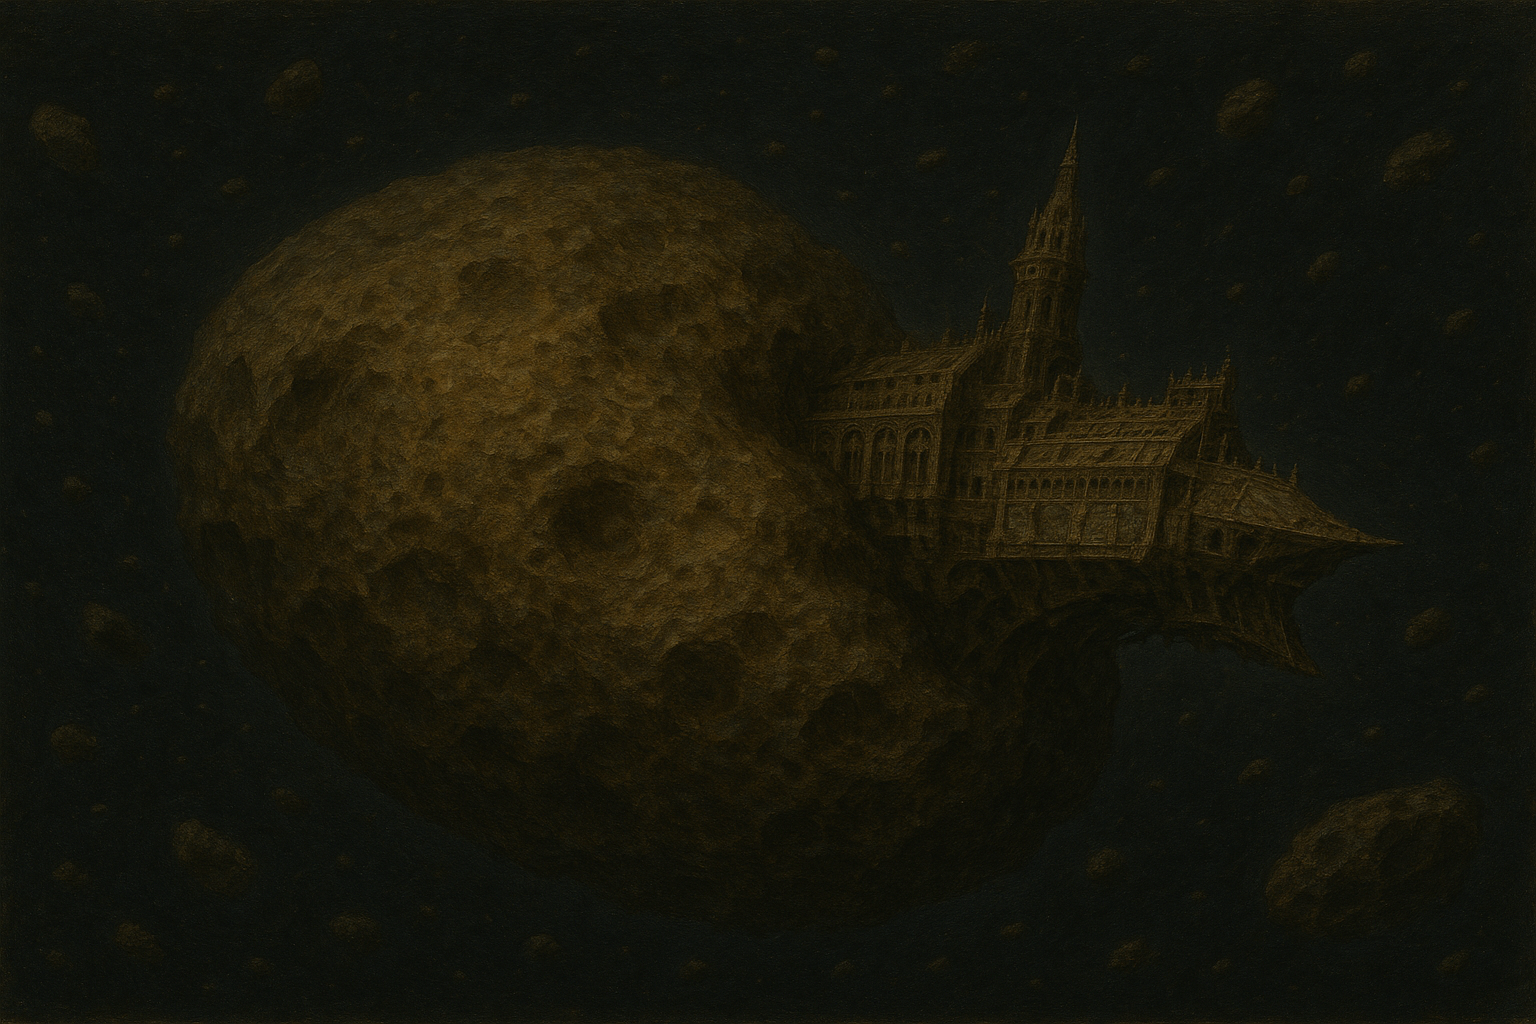
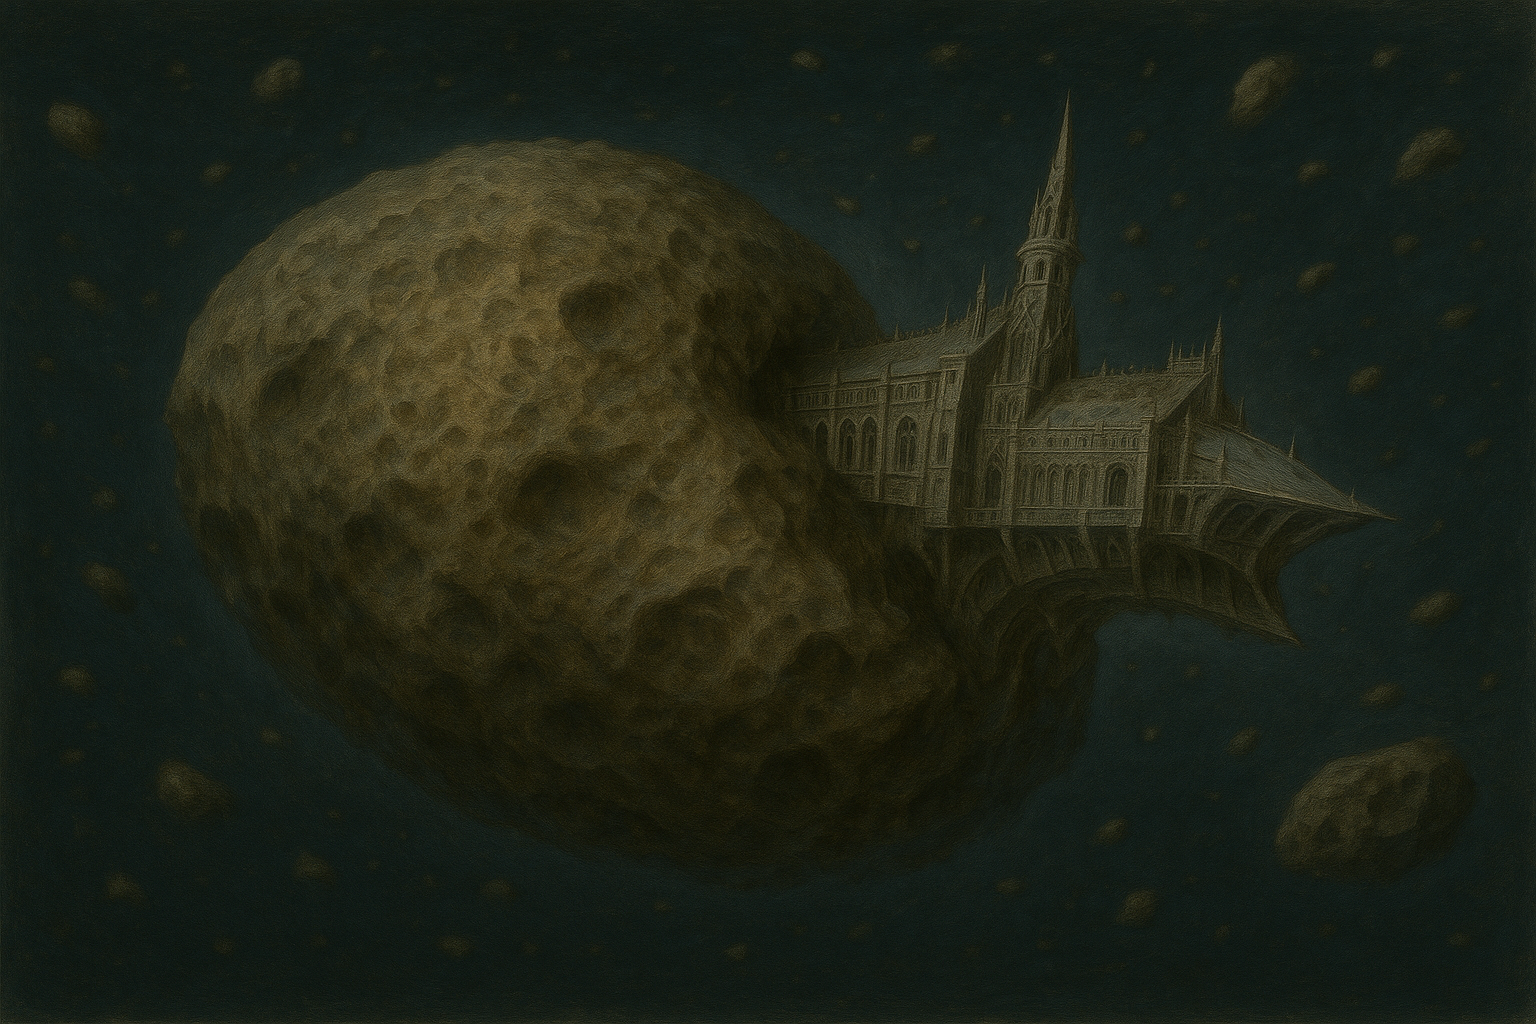
Session, 25/08/05

diff --git a/content/Sessions/Session 2025-08-05.md b/content/Sessions/Session 2025-08-05.md
@@ -1,0 +1,76 @@
+## Zapojené postavy
+**PC:**
+- [[Caradoc Valen]]
+- [[Echo]]
+- [[Mortis]]
+
+**NPC:** 
+- [[Lady-Captain Lyra Vhast]] 
+- [[Senior Auditor Phineas Thorne]]
+- [[Lop Kerys]]
+---
+## Klíčové momenty
+- po nalodění na *[[The Vigilant Seeker]]* tým provedl úklidové práce
+	- promazání záznamu o převozu kontrabandu
+	- znehodnocení kamerových záznamů
+	- skrytí nežádaného zboží v lodních úkrytech
+- na voidship vládl chaos
+	- nepomáhala hysterie a micromanagement [[Lady-Captain Lyra Vhast|Kapitánky Vhast]]
+- tým se ujal jakéhosi vedení a snažil se vyřešit situaci před naloděním úředníků [[Adeptus Administratum]]
+	- zmapování zakázaného zboží
+	- následné ukrytí kontrabandu
+		- rozdávání úkolů dělníkům
+		- hledání vhodných skrytých uložišť
+	- úprava lodních záznamů
+	- uklidnění kapitánky
+		- pomoc s vymyšlením krycího příběhu
+- proběhla kontrola
+	- vedeno [[Lop Kerys|Lopem Kerysem]]
+	- hologram [[Senior Auditor Phineas Thorne|Senior Auditora]]
+	- kontrolu prováděli 4 enforceři
+		- doprovázení [[Caradoc Valen|Caradocem]], [[Mortis|Mortisem]] a dvěma dalšími lodními důstojníky
+		- většina problémů "vyřešena"
+		- zabavena část nákladu
+- kontrola přijata Kapitnákou s neutrálním výrazem
+	- výtky vůči [[Echo|Echovi]]
+
+
+
+---
+## Kronika
+Po nalodění na _[[The Vigilant Seeker]]_ byl tým překvapen. Překvapen tím, jaký chaos na voidship vládnul. Hned po přistání se z interkomu ozvala [[Lady-Captain Lyra Vhast|Lady Vhast]] – hysterická, rozdávající protichůdné instrukce, a spražila tým za to, že není na můstku, i když právě přistál.
+
+Ještě předtím, než tým vyrazil na můstek, udělali to, co považovali za správné pro skrytí nákladu, který přivezli. [[Mortis]] upravil datové a kamerové záznamy o tom, co bylo na loď naloženo. [[Echo]] s [[Caradoc Valen|Caradocem]] ukryli kontraband ve své výsadkové lodi do příslušných přihrádek. Zbytek beden naplnili municí a granáty tak, aby to vypadalo, že přivezli jen neškodné zboží.
+
+S tímto řešením byli spokojeni a vyrazili na můstek. Překazila jim to však Lyra, která jim celé řešení vyčetla. Mortis tedy navrhl, že „pod svícnem je největší tma“ – nejlepší bude nechat bedny se zakázanou xenotechnologií přímo uprostřed nákladového prostoru. To přišlo v daný okamžik celému týmu jako geniální myšlenka a Caradoc ještě pověřil dva náhodné dělníky, aby na oněch bednách za každou cenu seděli a nehýbali se.
+
+![[cargospace.png]]
+
+Pokud v nákladovém prostoru vládl chaos, pak na můstku panovalo čiré zoufalství. Lyra rozdávala protichůdné rozkazy svým důstojníkům, což vedlo jen k většímu a většímu zmatku. Tým tedy převzal věci do vlastních rukou a začal konat.
+
+Mortis se chopil dataslatů, v nichž byly veškeré informace o nákladu – legálním i nelegálním. Doloval z nich data a předával je Caradocovi s Echem, kteří se navzdory svým zraněným nohám ([[Session 2025-07-29|předchozí session]]) vraceli do nákladového prostoru, aby zorganizovali dělníky.  
+Mortis hlásil polohy a počty, Caradoc instruoval dělníky a Echo vybíral vhodné skryté přihrádky. Po první hodině tým zjistil, že postrádá pět beden s nelegálním zbožím a některé z beden nejsou ukryté tam, kde mají být.
+
+Zbývaly dvě hodiny do nalodění úředníků z [[Adeptus Administratum]]. Tým si vytyčil nové cíle. Mortis měl upravit lodní záznamy tak, aby zmátly úředníky – místo toho však vytvořil dokonalý logistický přehled, protože jeho pořádkumilovnost byla silnější než pud sebezáchovy.  
+Caradoc zorganizoval dělníky, aby podle záznamů našli chybně ukryté zboží a přemístili ho na opravdu skrytá místa. Echo využil své senzorické pole, aby vypátral oněch pět chybějících beden. To se mu podařilo – za cenu přetížení a zničení svého auspexu.
+
+Poslední hodina před příchodem inspekce byla věnována přípravě. Mortis sestavil rušičku pro ztížení případného senzorického hledání. Caradoc se pokusil uklidnit kapitánku Vhast, protože si tým uvědomil, že je nutné mít sdílený krycí příběh. Lady Lyra se uklidnila a navrhla příběh, který šel použít – rozhodně však nebyl neprůstřelný.
+
+Na palubu *The Vigilant Seeker* nastoupil arbitrátor [[Lop Kerys]] v doprovodu čtyř enforcerů. Arbitrátor předložil Lyře a jejím důstojníkům holografický rozhovor se [[Senior Auditor Phineas Thorne|Senior auditorem Phineasem Thornem]], který je informoval o byrokratických důvodech a pravomocích, jimiž jeho tým disponuje. Poté se odpojil a Lop Kerys zahájil inspekci.
+
+Jako první se obrátil na Mortise s žádostí o přehled zboží. Ten zmínil zbraně, suroviny a vybavení pro psykery. Zmínka o psycherech zjevně zaujala arbitrátora, protože další dotazy směřoval právě na ně. Zeptal se Caradoca, proč je na palubě vybavení pro psykery. Caradoc odpověděl, že se Lady Lyra snaží najmout telepathu pro zajištění komunikace se svou rodnou planetou. Tato odpověď arbitrátora patrně uspokojila, protože se tématu dále nevěnoval a vyslal enforcery společně se čtyřmi důstojníky – Mortisem, Caradocem, voxmasterem a hlavním pilotem – provést inspekci.
+
+Echo se této nezáviděníhodné situaci vyhnul tím, že se skryl v davu.
+
+Enforceři, doprovázení členy týmu, nenalezli mnoho nesrovnalostí. Pouze u Caradoca se dostali ke dvěma bednám, které byly původně vyloženy a osazeny dělníky. Celou situaci Caradoc zachránil tím, že v sobě probudil bývalého důstojníka [[The Imperial Navy]] a na oba chudáky spustil salvou nadávek a rozkazů, že bedny je nutné okamžitě přenést k inventuře a zanést do databáze. Imperiální úředník nestihl zareagovat – a bedny byly pryč.
+
+Kdo odnesl veškerou hrůzu, byl hlavní kormidelník. Smůla se na něj lepila celý den a po návratu z inspekce vypadal, že se zhroutí na místě – tvář sinavá, politý potem, nemluvil, sotva dýchal. Přesto inspekce odhalila jen minimum nesrovnalostí a zabavila jen několik zbraní a surovin. V týmu tak zavládl mírný optimismus.
+
+Ne však v Lady Lyře. Po odchodu byrokratů jako by se jí vrátila její bojová nálada – a nenechala na svých lidech nit suchou. Nejvíce se vyřádila na Echovi: člen jejího hlavního týmu a v kritické situaci se schová? Caradoc ani Mortis kolegu nepodrželi a také spustili kritiku.  
+Echo se však dokázal ze svých problémů vymluvit a odešel jen se sníženou odměnou.
+
+---
+## Tagy
+#session  
+
+---

diff --git a/content/PC/Caradoc Valen.md b/content/PC/Caradoc Valen.md
@@ -1,4 +1,4 @@
-![[Assets/caradoc.png|360]]
+![[caradoc.png|360]]
 
 ## Imperiální databáze
 **Player**: Michal
@@ -38,6 +38,25 @@ Zariel své schopnosti plně neovládala. Došlo k nehodě a celá mise se nezda
 
 **Mise na** ***Lucky Star***
 
+První mise s novým týmem. Specialistu na infiltraci [[Echo|Echa]] doplnil již zachráněný techpriest Mortis jako nejnovější člen. Úkol byl jasný – vniknout na ztroskotanou loď *Lucky Star* a získat odtud smlouvy důležité pro [[Rod Vhast]] a náklad s významem pro kapitánku.
+
+Při průletu pásem asteroidů Caradoc zužitkoval své zkušenosti z [[The Imperial Navy|Imperial Navy]] a spolu s Mortisem, který se staral o senzoriku, se jim podařilo přistát poblíž vraku.
+
+Samotná infiltrace na loď proběhla bez větších problémů. Během průzkumu tým zneškodnil skupinu scavengerů a úspěšně nalezl požadované smlouvy. ([[Session 2025-07-01|session]])
+
+Druhá část požadavků – xenotechnologie pro Lady Lyru – se však nacházela v jiné části lodi, kde se podle všeho ukrýval neznámý vetřelec. Při souboji s tvorem se opět potvrdilo Caradocovo přesvědčení, že meč je mocnější než palné zbraně – právě díky jeho ráně tvor nakonec padl, byť za cenu zlomené nohy. ([[Session 2025-07-29|session]])
+
+Po návratu na voidship *[[The Vigilant Seeker]]* čekalo tým nepříjemné překvapení: úředníci z [[Adeptus Administratum]] oznámili inspekci. Na palubě vládl chaos a kapitánka Vhast naprosto ztrácela kontrolu. Velení musel převzít tým. A i když se snažili sebevíc, ne vše vycházelo, jak si přáli – například Mortis namísto záměrného zmatení záznamů vnesl do systému dokonalý pořádek.
+
+Po příchodu [[Lop Kerys|Lopa Keryse]] se Echo záměrně skryl a nechal enforcery jednat s důstojníky, kteří nebyli na podobné úkoly připraveni. To mělo své důsledky – hlavní kormidelník málem zkolaboval.
+
+Ačkoliv kontrola dopadla v zásadě dobře, celý průběh citelně nahlodal Caradocovu důvěru jak v tým, tak v kapitánku. 
+
+V Lyře viděl poprvé slabost, kterou nelze přejít.  
+V Echovi poprvé selhání, které nelze omluvit.  
+V Mortisovi kompetenci, která potřebuje dohled. 
+
+Caradocova loajalita nestojí na slepé poslušnosti, ale na důvěře ve schopnosti. A právě tento obraz byl všemi třemi narušen. ([[Session 2025-08-05|session]])
 
 ---
 ## Historie
@@ -58,7 +77,7 @@ Pak přišla [[Lady-Captain Lyra Vhast]]. Neptala se na jeho minulost. Řekla mu
 
 ---
 ## Sessions
- [[Session 2025-07-01]] [[Session 2025-07-29]]
+ [[Session 2025-07-01]] [[Session 2025-07-29]] [[Session 2025-08-05]]
 
 ---
 ## Tagy

diff --git a/content/NPC/Lady-Captain Lyra Vhast.md b/content/NPC/Lady-Captain Lyra Vhast.md
@@ -13,10 +13,12 @@
 
 ---
 ## Vztahy 
-
 - [[Caradoc Valen]] - člen týmu
 - [[Mortis]] - člen týmu
 - [[Echo]] - člen týmu
+
+---
+## Vývoj
 
 ---
 ## Historie
@@ -25,9 +27,6 @@ Lady-Captain Lyra Vhast zdědila Obchodní glejt, který měl sotva nějakou cen
 Její chování je trvale vážné – stín odrážející dědičné břemeno i nemilosrdné kalkulace, nezbytné pro přežití jejího rodu.
 
 Když si uvědomila, že legitimní cesty se uzavírají, obrátila se Lyra Vhast k šedým zónám Impéria. Spatřila příležitost v mrtvých úhlech imperiálního práva a zoufalých potřebách, které oficiální struktury nedokázaly naplnit. Její ambice není jen otázkou bohatství – jde o obnovu a povznesení jména Vhast, o důkaz, že její rod zůstává silou, s níž je třeba počítat. Rodem, který dovede dotáhnout věci do konce – bez ohledu na překážky či zákonnost.
-
----
-## Vývoj
 
 ---
 ## Sessions
@@ -68,6 +67,7 @@ Když si uvědomila, že legitimní cesty se uzavírají, obrátila se Lyra Vhas
 - Strange Tastes
 - Enemy ([[Adeptus Administratum]])
 
+---
 ---
 ## Tagy 
 #npc #patron #vhast_dynasty #crew

diff --git a/content/Sessions/Session 2025-07-01.md b/content/Sessions/Session 2025-07-01.md
@@ -30,7 +30,6 @@
 
 ---
 ## Kronika
-
 [[Lady-Captain Lyra Vhast]] přivítala na palubě *[[The Vigilant Seeker]]* svého nového agenta [[Mortis|Mortise]] a jako test předložila týmu nový úkol. Před několika lety, ztroskotala v oblasti *Graveyard of Unblessed Void* ve *Varkus Asteroid Belt* nákladní loď *Lucky Star*. Kromě běžného nákladu převážela i důležité obchodní smlouvy a neidentifikovanou mimozemskou technologii, o niž měla Lady Lyra osobní zájem. Úkolem agentů bylo proniknout do pásma asteroidů, lokalizovat vrak *Lucky Star* a získat zmíněné artefakty.
 
 Skupina se nalodila na zapůjčenou dopravní loď. [[Caradoc Valen|Caradoc]] převzal řízení, Mortis se věnoval navigaci a senzorům. Jeho nezkušenost ve vesmírné orientaci však způsobila zdržení. Pás asteroidů se ukázal jako zrádný a plný rušivých interferencí. Díky Mortisově schopnosti uklidnit *Machine Spirity* a Caradocovu pilotnímu umění se posádka bezpečně přiblížila k troskám *Lucky Star*, byť odříznuta od komunikace s mateřskou lodí. A tedy bez případné podpory.

diff --git a/content/Sessions/Session 2025-07-29.md b/content/Sessions/Session 2025-07-29.md
@@ -20,7 +20,6 @@
 - při návratu na *[[The Vigilant Seeker]]* identifikována loď [[Adeptus Administratum]]
 ---
 ## Kronika
-
 Předtím, než se agenti vydali do nákladového prostoru, ve kterém se měl nacházet požadovaný náklad pro [[Lady-Captain Lyra Vhast|Lady Vhast]], rozhodl se [[Mortis]] připojit ke kamerovému systému lodi. *Machine Spirit* mu byl milostiv a zjevil, že do skladiště vede několik přístupových cest — ta hlavní z nitra lodi je však zatarasena bednami.
 
 Skupina se rozhodla bedny odklidit. Jednak si tím připravili potenciální únikovou cestu, jednak doufali, že mezi nákladem naleznou zboží určené pro Lady Vhast. V tom jim ale štěstí nepřálo — objevili pouze zásobníky ke svým zbraním.

diff --git a/vault/templates/npc.md b/vault/templates/npc.md
@@ -1,21 +1,29 @@
 
+## Imperiální databáze
+**Type**: 
 
-**Typ**: (NPC / Monstrum)  
-**Role / povolání**:  
-**Frakce**: [[ ]]  
-**Poprvé se objevil**: [[Session YYYY-MM-DD]]  
-**Vztahy**:  
-- [[ ]] – (vztah)
+**Role:** 
 
-## Popis
-Krátký popis vzhledu, způsobu mluvy, dojmu.
+**Faction**: 
 
-## Motivace
-Co chce, čeho se bojí, jak reaguje.
+**Status:** 
 
+**First occurence:** 
+
+---
+## Vztahy 
+
+
+---
 ## Vývoj
-- Sezení 1: X
-- Sezení 2: Y
 
-## Tagy
-#npc
+
+---
+## Historie
+
+
+---
+## Sessions
+
+---
+## Tagy 

diff --git a/content/NPC/Lop Kerys.md b/content/NPC/Lop Kerys.md
@@ -1,0 +1,31 @@
+![[kerys.png|360]]
+## Imperiální databáze
+**Type**: NPC
+
+**Role:** Arbitrator
+
+**Faction**: [[Adeptus Administratum]]
+
+**Status:** Alive
+
+**First occurence:** [[Session 2025-08-05]]
+
+---
+## Vztahy 
+- [[Senior Auditor Phineas Thorne]] - nadřízený úředník, senior auditor
+
+---
+## Vývoj
+
+
+---
+## Historie
+
+
+---
+## Sessions
+[[Session 2025-08-05]]
+
+---
+## Tagy 
+#npc #adeptus_administratum 

diff --git a/content/NPC/Senior Auditor Phineas Thorne.md b/content/NPC/Senior Auditor Phineas Thorne.md
@@ -1,0 +1,31 @@
+![[thorne.png|360]]
+## Imperiální databáze
+**Type**: NPC
+
+**Role:** Senior Auditor
+
+**Faction**: [[Adeptus Administratum]]
+
+**Status:** Alive
+
+**First occurence:** [[Session 2025-08-05]]
+
+---
+## Vztahy 
+- [[Lop Kerys]] - arbitrator
+
+---
+## Vývoj
+
+
+---
+## Historie
+
+
+---
+## Sessions
+[[Session 2025-08-05]]
+
+---
+## Tagy 
+#npc #adeptus_administratum 

diff --git a/content/PC/Mortis.md b/content/PC/Mortis.md
@@ -44,12 +44,12 @@ Mortis byl při útěku dopaden a uvězněn. Několik týdnů čekal na výslech
 
 ---
 ## Sessions
-[[Session 2025-07-01]] [[Session 2025-07-29]]
+[[Session 2025-07-01]] [[Session 2025-07-29]] [[Session 2025-08-05]]
 
 ---
 ---
 ## Tagy
 #pc #crew #adeptus_mechanicus
 
----
+
 

diff --git a/content/PC/Echo.md b/content/PC/Echo.md
@@ -53,7 +53,7 @@ I když slouží [[Lady-Captain Lyra Vhast|Lady Vhast]], věrnost Calligosovi a 
 
 ## Sessions
 
-[[Session 2025-07-01]] [[Session 2025-07-29]]
+[[Session 2025-07-01]] [[Session 2025-07-29]] [[Session 2025-08-05]]
 
 ---
 

diff --git a/content/NPC/Zariel.md b/content/NPC/Zariel.md
@@ -9,7 +9,7 @@
 
 --- 
 ## Vztahy 
-- [[Mortis]] - mladší sestra. 
+- [[Mortis]] - starší bratr
 
 ## Popis
 
